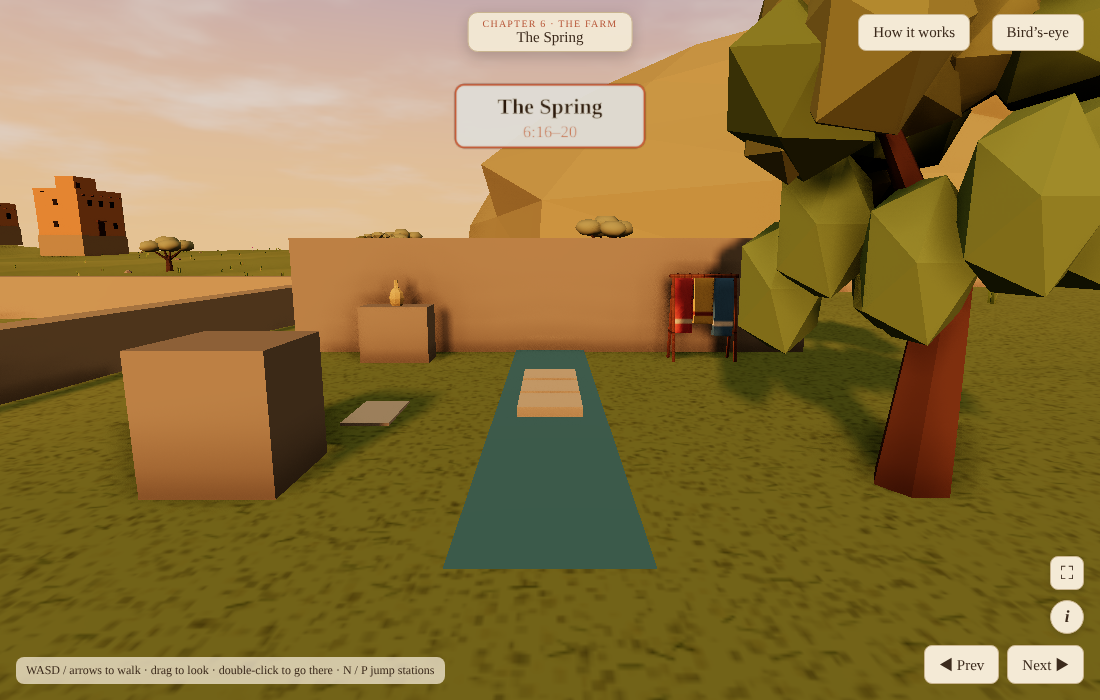
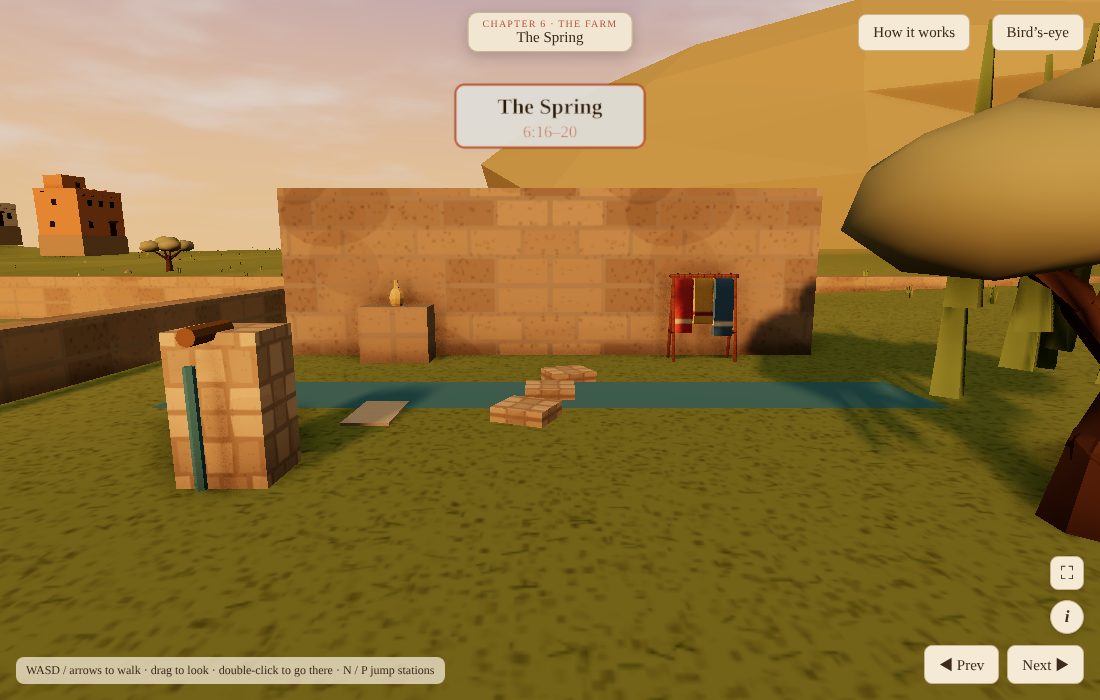
Sermon on the Mount: textures on all custom materials; room fixes from critic round 1 (15 rooms under 6)
Claude-Session: https://claude.ai/code/session_011GTaBjBmrRYMxR8CbFEKPF

diff --git a/som-ltm/world/farm.js b/som-ltm/world/farm.js
@@ -5,6 +5,8 @@
 // Builders use the helpers of world/mount.js (roomFrame, atR, SQ, ground, somRock, finishRoom, the som* materials).
 const basaltM = mat('somBasalt', '#6a625a'), plasterM = mat('somPlaster', '#e6dcc6'), mudM = mat('somMud', '#a88a62'), clothM = mat('somCloth', '#e8e0cc'),
   waterM = mat('somWater', '#4f8fa6'), willowM = mat('somWillow', '#7c9a52'), lentilM = mat('somLentil', '#6f8e3c'), herbM = mat('somHerb', '#7a8a4a');
+basaltM.map = TEX.stone; basaltM.color.set('#8a827a'); plasterM.map = TEX.plaster; mudM.map = TEX.plaster; mudM.color.set('#c8a878'); clothM.map = TEX.cloth;
+for (const m of [basaltM, plasterM, mudM, clothM]) m.needsUpdate = true;
 const wallRun = (x0, z0, x1, z1, H, m = dryStone, W = .6) => { const L = Math.hypot(x1 - x0, z1 - z0), xc = (x0 + x1) / 2, zc = (z0 + z1) / 2;
   const b = box(L, H, W, m, xc, Math.min(heightAt(x0, z0), heightAt(x1, z1), heightAt(xc, zc)) - .15, zc); b.rotation.y = -Math.atan2(z1 - z0, x1 - x0); return b; };
 // a wall along a line with gaps [[from, to], ...] measured along it
@@ -21,8 +23,9 @@ libAt('plaster-house-two-storey', 115.5, -16, Math.PI / 2, .9);   // the farmhou
 // ---- 6.1 THE COURTYARD (6:1–5): gate pier · curtained doorway · stair to the roof · roof-roller · cistern lid ----
 defBuilder('som.court', (r, { ch }) => { const F = roomFrame(r), h = 2.6, sp = SQ(h).map(([f, s]) => F.at(f, s)), out = [];
   { const g = atR(F, 0, 0); box(2 * h + 2, .08, 2 * h + 2, paleM, 0, 0, 0, g); }                                      // the paving
-  { const g = atR(F, -h, -h); box(.7, 1.8, .7, dryStone, 0, 0, 0, g); out.push(ground(sp[0], 1.95)); }                // the gate's left pier
-  { const g = atR(F, h + .7, -h + .2); box(1.3, 2.3, .15, mat('somCurtain', '#7a3b2e'), 0, 0, 0, g); box(1.8, .3, .4, 'wood', 0, 2.3, 0, g); out.push(ground(F.at(h + .4, -h + .2), .25)); }   // the doorway, its curtain
+  { const g = atR(F, -h, -h); box(.8, 1.9, .8, dryStone, 0, 0, 0, g); box(1, .18, 1, paleM, 0, 1.9, 0, g); out.push(ground(sp[0], 2.2)); }   // the gate's left pier, squared, with its cap
+  { for (const sd of [-1, 1]) { const g = atR(F, .4, sd * (h + 1.3)); box(.45, .9, 2 * h + 1.4, mudM, 0, 0, 0, g); } }   // low walls closing the court on either side
+  { const g = atR(F, h + .8, -h + .2); box(3.4, 2.7, .3, plasterM, 0, 0, -.2, g); box(1.2, 2.1, .32, darkM, 0, 0, -.18, g); box(1.1, 2, .06, mat('somCurtain', '#9a4a36'), 0, .05, 0, g); box(1.6, .22, .36, 'wood', 0, 2.1, -.15, g); out.push(ground(F.at(h + .45, -h + .2), .25)); }   // the doorway into the house, its curtain hanging
   { const g = atR(F, h + .2, h); for (let k = 0; k < 6; k++) box(1, .3 * (k + 1), .55, dryStone, 0, 0, .5 - k * .55, g); out.push(ground(F.at(h + .2, h), 1.15)); }   // the stair up to the roof
   { const g = atR(F, -h, h); const c = cyl(.28, .28, 1.2, 10, rockM, 0, .28, 0, g); c.rotation.z = Math.PI / 2; c.position.y = .28; out.push(ground(sp[3], .62)); }   // the roof-roller
   { cyl(.6, .6, .3, 14, dryStone, F.x, F.y, F.z); cyl(.5, .5, .1, 14, rockDk, F.x, F.y + .3, F.z); out.push({ x: F.x, z: F.z, y: F.y + .45 }); }   // the cistern mouth and its lid
@@ -45,23 +48,24 @@ defBuilder('som.store', (r, { ch }) => { const F = roomFrame(r), h = 2.3, sp = S
 
 // ---- 6.3 THE BAKEHOUSE YARD (6:11–15): sieve on its hook · woodpile · clay oven · smoke-stained corner · kneading bowl ----
 defBuilder('som.bake', (r, { ch }) => { const F = roomFrame(r), h = 2.5, sp = SQ(h).map(([f, s]) => F.at(f, s)), out = [];
-  { const g = atR(F, -h, -h); cyl(.07, .08, 1.9, 6, 'wood', 0, 0, 0, g); box(.3, .05, .05, 'wood', 0, 1.6, .12, g); const sv = cyl(.32, .32, .1, 14, mat('somSieve', '#c8a86a'), 0, 1.3, .2, g); sv.rotation.x = Math.PI / 2; out.push(ground(sp[0], 1.95)); }   // the sieve on its post
+  { const g = atR(F, -h, -h); cyl(.07, .08, 1.9, 6, 'wood', 0, 0, 0, g); box(.3, .05, .05, 'wood', 0, 1.6, .12, g); const rim = add(new THREE.TorusGeometry(.34, .05, 6, 18), 'woodLt', 0, 1.3, .24, g); const mesh = cyl(.32, .32, .02, 16, mat('somMesh', '#d8c08a'), 0, 1.3, .24, g); mesh.material.map = TEX.wicker; mesh.rotation.x = Math.PI / 2; out.push(ground(sp[0], 1.95)); }   // the sieve, rim and mesh, hung on its post
+  { const g = atR(F, h + 1.4, 0); box(2 * h + 3, 1, .45, mudM, 0, 0, 0, g); const g2 = atR(F, 0, -h - 1.4); box(.45, 1, 2 * h + 3, mudM, 0, 0, 0, g2); }   // low mud-brick yard walls
   { const g = atR(F, h, -h); for (let row = 0; row < 3; row++) for (let k = 0; k < 5 - row; k++) { const l = cyl(.11, .11, 1.3, 6, 'wood', -.5 + k * .24 + row * .12, .11 + row * .2, 0, g); l.rotation.x = Math.PI / 2; l.position.y = .11 + row * .2; } out.push(ground(sp[1], .75)); }   // the woodpile
   { const [x, z] = sp[2], y = heightAt(x, z); const oy = libAt('bread-oven', x, z, F.yaw, 1);
     for (let k = 0; k < 4; k++) { const [lx, lz] = F.at(h - 1.1, h - .4 + k * .3); cyl(.17, .17, .05, 10, mat('somLoaf', '#c8964e'), lx, heightAt(lx, lz) + .02, lz); } out.push({ x, z, y: oy }); }   // the clay oven, loaves cooling beside it
-  { const g = atR(F, -h - .3, h + .3); box(.4, .9, 1.4, dryStone, -.2, 0, .5, g); box(1.4, .9, .4, dryStone, -.5, 0, .2, g); box(.6, .6, .02, darkM, -.3, .3, -.01, g); out.push(ground(sp[3], .2)); }   // a low corner of walling outside the yard, smoke-stained   // the smoke-stained corner
-  { const g = atR(F, 0, 0); box(.7, .4, .7, rockM, 0, 0, 0, g); const t = libAt('clay-bowl', F.x, F.z, 0, 1.6); out.push({ x: F.x, z: F.z, y: Math.max(F.y + .75, t) }); }   // the kneading bowl on its stone
+  { const g = atR(F, -h - .3, h + .3); box(.45, 1.1, 1.6, mudM, -.2, 0, .5, g); box(1.6, 1.1, .45, mudM, -.5, 0, .2, g); box(.9, 1.05, .02, darkM, -.4, .02, -.03, g); box(.02, 1.05, .9, darkM, .03, .02, .2, g); out.push(ground(sp[3], .2)); }   // the yard's corner, blackened with smoke
+  { const g = atR(F, 0, 0); box(.8, .45, .8, rockM, 0, 0, 0, g); cyl(.58, .36, .3, 18, clayM, 0, .45, 0, g); add(new THREE.CircleGeometry(.5, 18), mat('somDough', '#efe2c4'), 0, .72, 0, g).rotation.x = -Math.PI / 2; const cl = box(.9, .02, .5, clothM, .25, .76, .15, g); cl.rotation.z = -.25; out.push({ x: F.x, z: F.z, y: F.y + .9 }); }   // the wide kneading bowl, dough and a cloth
   finishRoom(ch, r, F, out); });
 
 // ---- 6.4 THE SPRING (6:16–20): spout · oil flask on a ledge (v) · wash-line · willow · flat stones across the outflow ----
 defBuilder('som.spring', (r, { ch }) => { const F = roomFrame(r), h = 2.5, sp = SQ(h).map(([f, s]) => F.at(f, s)), out = [];
-  { const g = atR(F, h + 1.5, 0); box(2 * h + 4, 2.4, 1.6, rockM, 0, -.4, 0, g); }                                     // the rock face at the back
-  { const g = atR(F, -h, -h); box(1, 1.1, 1, rockM, 0, 0, 0, g); const p = cyl(.06, .06, .5, 6, 'wood', 0, .9, -.4, g); p.rotation.x = Math.PI / 2; p.position.set(0, .9, -.6); out.push(ground(sp[0], 1.25)); }   // the spout
+  { const g = atR(F, h + 1.1, 0); box(2 * h + 4, 3.2, 1.4, rockM, 0, -.4, 0, g); }   // the rock face the spring comes out of
+  { const g = atR(F, -h, -h); box(.7, 1.2, .6, paleM, 0, 0, 0, g); const p2 = cyl(.07, .07, .5, 8, mat('somBronze', '#8a6a3a'), 0, .95, .3, g); p2.rotation.x = Math.PI / 2; cyl(.04, .04, .9, 6, mat('somWater', '#6fb3c8'), 0, .1, .55, g); out.push(ground(sp[0], 1.35)); }   // the spout: a carved stone, a pipe, the water falling
   { const g = atR(F, h, -h); box(1.1, .9, .6, rockM, 0, 0, 0, g); const fl = add(new THREE.SphereGeometry(.12, 8, 6), mat('somFlask', '#d9c27a'), 0, 1.02, 0, g); fl.scale.y = 1.5; cyl(.03, .04, .14, 6, mat('somFlask', '#d9c27a'), 0, 1.18, 0, g); out.push(ground(sp[1], 1.35)); }   // flask of oil on a ledge of rock
   { const [x, z] = sp[2]; out.push({ x, z, y: libAt('laundry-rack', x, z, F.yaw, 1) }); }   // the wash-line with a tunic drying
-  { const [x, z] = F.at(-h - .3, h + .3); tree(x, z, 1.1); for (let k = 0; k < 9; k++) add(new THREE.IcosahedronGeometry(.4, 0), willowM, x + R(-1.2, 1.2), heightAt(x, z) + R(1.4, 2.6), z + R(-1.2, 1.2)).scale.y = 1.6; out.push(ground(sp[3], .6)); }   // the willow
-  { const m = add(new THREE.PlaneGeometry(1.2, 2 * h + 3), waterM, ...F.at(0, 0).map((v, i) => i ? v : v)); m.rotation.x = -Math.PI / 2; m.rotation.z = -F.yaw; m.position.set(F.x, F.y + .04, F.z);
-    for (let k = -1; k <= 1; k++) { const [x, z] = F.at(k * .7, 0); box(.6, .15, .7, paleM, x, F.y, z); } out.push({ x: F.x, z: F.z, y: F.y + .3 }); }   // the outflow and its flat stones
+  { const [x, z] = F.at(-h - .9, h + 1.1); tree(x, z, 1.1); for (let k = 0; k < 14; k++) { const fr = add(new THREE.CylinderGeometry(.02, .12, 1.6, 4), willowM, x + R(-1.2, 1.2), heightAt(x, z) + R(1.6, 2.6), z + R(-1.2, 1.2)); fr.rotation.z = R(-.15, .15); } out.push(ground(sp[3], .6)); }   // the willow, its fronds hanging
+  { const m = add(new THREE.PlaneGeometry(1.3, 2 * h + 4), waterM, 0, 0, 0); m.rotation.x = -Math.PI / 2; m.rotation.z = -F.yaw + Math.PI / 2; m.position.set(F.x, F.y + .04, F.z);
+    for (let k = -1; k <= 1; k++) { const [x, z] = F.at(k * .9, k * .25); const st = box(.6, .16, .55, paleM, x, F.y, z); st.rotation.y = F.yaw + k * .4; } out.push({ x: F.x, z: F.z, y: F.y + .3 }); }   // the outflow and its flat stones
   { const [x, z] = F.at(-.8, -h + .6); box(.9, .03, .5, clothM, x, heightAt(x, z) + .02, z); }   // a linen towel spread on the rocks
   finishRoom(ch, r, F, out); });
 
@@ -69,12 +73,12 @@ defBuilder('som.spring', (r, { ch }) => { const F = roomFrame(r), h = 2.5, sp = 
 defBuilder('som.stall', (r, { ch }) => { const F = roomFrame(r), h = 2.5, sp = SQ(h).map(([f, s]) => F.at(f, s)), out = [];
   const g = atR(F, 0, 0, Math.PI);
   box(.4, 2.6, 2 * h + 1.8, dryStone, -h - .9, 0, .2, g); box(.4, 2.6, 2 * h + 1.8, dryStone, h + .9, 0, .2, g); box(2 * h + 2.2, 2.6, .4, dryStone, 0, 0, h + 1, g);   // three walls, open front
-  box(2 * h + 2.4, .25, 2 * h + 2.4, 'wood', 0, 2.6, .2, g);                                                                  // the roof
+  for (let k = -2; k <= 2; k++) box(.2, .2, 2 * h + 2.4, 'wood', k * 1.4, 2.6, .2, g);   // open roof beams, so the stall is lit
   { const s2 = atR(F, -h, -h); box(.35, 2.6, .35, 'wood', 0, 0, 0, s2); out.push(ground(sp[0], 1.4)); }                     // the left stall post
-  { const s2 = atR(F, h + .7, -h); box(.08, .08, .3, 'wood', 0, 1.6, 0, s2); box(1.6, .14, .14, 'woodLt', 0, 1.62, -.2, s2); for (const s3 of [-.5, .5]) { const u = add(new THREE.TorusGeometry(.18, .04, 4, 8, Math.PI), 'wood', s3, 1.45, -.2, s2); u.rotation.z = Math.PI; } box(.5, 1.2, .4, dryStone, 0, 0, -.2, s2); out.push(ground(F.at(h + .7, -h), 1.3)); }   // the yoke on its peg, over a stone ledge
+  { const s2 = atR(F, h + .7, -h); box(.1, .1, .35, 'wood', 0, 1.7, 0, s2); box(1.9, .18, .18, 'woodLt', 0, 1.72, -.22, s2); for (const s3 of [-.6, .6]) { const u = add(new THREE.TorusGeometry(.22, .05, 5, 10, Math.PI), 'wood', s3, 1.5, -.22, s2); u.rotation.z = Math.PI; } box(.6, 1.3, .45, dryStone, 0, 0, -.2, s2); out.push(ground(F.at(h + .7, -h), 1.4)); }   // the yoke, made for two, on its peg
   { const s2 = atR(F, h, h, .3); const b = box(.12, .12, 2, 'wood', 0, .5, 0, s2); b.rotation.x = .25; box(.08, .5, .3, ironM, 0, .05, .9, s2); box(.6, .08, .08, 'wood', 0, .9, -.8, s2); out.push(ground(sp[2], .85)); }   // the plough
   { const [x, z] = sp[3]; for (let k = 0; k < 10; k++) add(new THREE.IcosahedronGeometry(R(.3, .45), 0), strawM, x + R(-.5, .5), heightAt(x, z) + R(0, .3), z + R(-.5, .5)).scale.y = .5; out.push(ground(sp[3], .55)); }   // straw bedding
-  { box(.6, 2.6, .6, dryStone, F.x, F.y, F.z); box(.45, .35, .1, darkM, F.x - F.fx * .3, F.y + .9, F.z - F.fz * .3); out.push({ x: F.x, z: F.z, y: F.y + 2.85 }); }   // the roof pillar and its feeding niche
+  { box(.7, 2.6, .7, dryStone, F.x, F.y, F.z); const [nx, nz] = F.at(-.36, 0); const n = box(.6, .45, .2, strawM, nx, F.y + .8, nz); n.rotation.y = F.yaw; out.push({ x: F.x, z: F.z, y: F.y + 2.85 }); }   // the roof pillar, its feeding niche filled with fodder
   { const [x, z] = F.at(1.3, -1.5); libAt('ox-grazing', x, z, F.yaw + .5, .85); }   // the ox
   finishRoom(ch, r, F, out); });
 
@@ -83,17 +87,17 @@ defBuilder('som.granary', (r, { ch }) => { const F = roomFrame(r), h = 2.5, sp =
   { const g = atR(F, -h, -h); for (let k = 0; k < 3; k++) box(1.2, .2 * (k + 1), .5, dryStone, 0, 0, -k * .5, g); out.push(ground(sp[0], .7)); }   // the terrace steps
   { const [x, z] = sp[1]; libAt('garden-plot', x, z, F.yaw, .8); out.push(ground(sp[1], .35)); }   // the patch of lentils
   { const g = atR(F, h, h); cyl(.05, .05, 2.2, 5, 'wood', 0, 0, 0, g); box(1.3, .06, .06, 'wood', 0, 1.6, 0, g); box(.6, .8, .2, mat('somRag', '#8a6a4a'), 0, 1.1, 0, g); add(new THREE.SphereGeometry(.17, 8, 6), strawM, 0, 2.05, 0, g); out.push(ground(sp[2], .5)); }   // the scarecrow
-  { const g = atR(F, -h + .6, h + 3.2, -Math.PI / 2); box(3.2, 2.8, 3, dryStone, 0, 0, 0, g); add(new THREE.SphereGeometry(1.6, 10, 6, 0, 6.3, 0, 1.57), mudM, 0, 2.8, 0, g).scale.y = .7; box(.9, 1.6, .1, 'wood', 0, 0, -1.55, g); out.push(ground(F.at(-h + .6, h + 1.4), .15)); }   // the granary, off to the right, its door facing the field
+  { const g = atR(F, -h + .9, h + 2.1, -Math.PI / 2); box(2.6, 2.6, 2.6, dryStone, 0, 0, 0, g); add(new THREE.SphereGeometry(1.35, 10, 6, 0, 6.3, 0, 1.57), mudM, 0, 2.6, 0, g).scale.y = .7; box(.9, 1.6, .1, 'wood', 0, 0, 1.33, g); box(1.1, .12, .2, 'woodLt', 0, 1.6, 1.36, g); out.push(ground(F.at(-h + .9, h + .6), .15)); }   // the stone granary, its door facing the field
   { for (let k = -2; k <= 2; k++) { const [x, z] = F.at(k * .6, 0); const fr = box(.25, .1, 3.2, mudM, x, heightAt(x, z) - .02, z); fr.rotation.y = F.yaw; }
-    const [x, z] = F.at(0, .3); const hd = cyl(.03, .03, 1.4, 5, 'wood', x, heightAt(x, z), z); hd.rotation.z = .5; out.push({ x: F.x, z: F.z, y: F.y + .3 }); }   // furrows and the hoe
+    const [x, z] = F.at(0, .3); const hd = cyl(.035, .035, 1.4, 5, 'wood', x, heightAt(x, z) + .12, z); hd.rotation.set(0, F.yaw, Math.PI / 2); const bl = box(.08, .3, .26, ironM, x, heightAt(x, z) + .02, z); bl.rotation.y = F.yaw; out.push({ x: F.x, z: F.z, y: F.y + .3 }); }   // furrows and the hoe
   finishRoom(ch, r, F, out); });
 
 // ---- 6.7 THE OLIVE PRESS (6:31–34): crushing stone · press beam in its wall socket · rope pulp-baskets · oil collecting pit ----
 defBuilder('som.press', (r, { ch }) => { const F = roomFrame(r), h = 2.4, sp = SQ(h).map(([f, s]) => F.at(f, s)), out = [];
   { const g = atR(F, h + 1.3, 0); box(2 * h + 3, 2.4, .7, dryStone, 0, 0, 0, g); }                                     // the back wall that holds the beam
-  { const [x, z] = sp[0]; out.push({ x, z, y: libAt('olive-press', x, z, F.yaw, 1) }); }   // the crushing stone in its bed
-  { const g = atR(F, h, -h + .3); const bm = box(.3, .3, 4.5, 'wood', 0, 1.2, -1.5, g); bm.rotation.x = -.12; box(.5, .5, .5, darkM, 0, .9, .75, g); box(.5, 1, .5, rockM, 0, 0, -3.5, g); out.push(ground(F.at(h - .6, -h + .3), 1.65)); }   // the press beam in its socket
-  { const [x, z] = sp[2]; for (let k = 0; k < 6; k++) cyl(.4, .4, .14, 12, mat('somRopeB', '#9a7a4a'), x, heightAt(x, z) + k * .15, z); out.push(ground(sp[2], 1.05)); }   // the stack of rope pulp-baskets
+  { const [x, z] = sp[0], y = heightAt(x, z); cyl(1.05, 1.1, .5, 18, rockM, x, y, z); cyl(.85, .85, .06, 18, mat('somOil', '#6a5a2a'), x, y + .47, z); cyl(.12, .12, 1.4, 8, 'wood', x, y + .5, z); const st = cyl(.62, .62, .32, 18, paleM, x + .4, y + 1.1, z); st.rotation.z = Math.PI / 2; const ax = box(1.8, .12, .12, 'wood', x + .4, y + 1.05, z); out.push({ x, z, y: y + 1.9 }); }   // the crushing stone: an upright millstone in its round stone bed
+  { const g = atR(F, h + .9, -h); box(.9, .9, .3, paleM, 0, .9, 0, g); box(.4, .4, .32, darkM, 0, 1.15, .01, g); const bm = box(.28, .28, 4.4, 'wood', 0, 1.0, 2.1, g); bm.rotation.x = .1; box(.6, .5, .6, rockM, 0, 0, 4.2, g); out.push(ground(F.at(h + .45, -h), 1.55)); }   // the press beam running out of its socket in the wall, a weight stone at its end
+  { const [x, z] = sp[2]; const bm2 = mat('somRopeB', '#b08a52'); bm2.map = TEX.wicker; for (let k = 0; k < 5; k++) cyl(.5, .5, .16, 16, bm2, x + R(-.04, .04), heightAt(x, z) + k * .17, z); out.push(ground(sp[2], .95)); }   // a stack of woven rope pulp-baskets
   { const [x, z] = sp[3], y = heightAt(x, z); cyl(.65, .65, .12, 14, rockM, x, y, z); add(new THREE.CircleGeometry(.45, 12), darkM, x, y + .13, z).rotation.x = -Math.PI / 2; out.push({ x, z, y: y + .2 }); }   // the oil collecting pit
   finishRoom(ch, r, F, out); });
 

diff --git a/som-ltm/world/mount.js b/som-ltm/world/mount.js
@@ -13,6 +13,12 @@ const rockM = mat('somRock', '#9a9282'), rockDk = mat('somRockDk', '#7d776b'), p
   ironM = mat('somIron', '#4a4744'), clayM = mat('somClay', '#b5653e'), hideM = mat('somHide', '#6b4a32'), tentM = mat('somTent', '#262220'),
   ashM = mat('somAsh', '#8d8a85'), leafM = mat('somLeaf', '#5f7a3e'), cukeM = mat('somCuke', '#5d7f36'), combM = mat('somComb', '#d9a640');
 
+// textures for the summit's own materials (critic, 2026-11-17: "flat, untextured"): stone and rock get the stone texture, slabs the flagstones,
+// cloth and tent the cloth weave, clay the pottery glaze. Rocks are lightened a little so nothing reads as a black hole.
+rockM.map = TEX.stone; rockM.color.set('#b0a796'); rockDk.map = TEX.stone; rockDk.color.set('#968e80'); dryStone.map = TEX.stone; dryStone.color.set('#c8b896');
+paleM.map = TEX.flag; paleM.color.set('#efe6d2'); floorM.map = TEX.flag; brushM.map = TEX.wicker; strawM.map = TEX.wicker; clayM.map = TEX.pot; clayM.color.set('#c47a4a');
+tentM.map = TEX.cloth; tentM.color.set('#4a3a30'); hideM.map = TEX.cloth; ashM.map = TEX.flag;
+for (const m of [rockM, rockDk, dryStone, paleM, floorM, brushM, strawM, clayM, tentM, hideM, ashM]) m.needsUpdate = true;
 // the room's frame: forward (away from the viewer) and right, in world x/z, as station() works them out
 function roomFrame(r) { const [x, z] = r.at, [vx, vz] = r.viewer; let fx = x - vx, fz = z - vz; const l = Math.hypot(fx, fz); fx /= l; fz /= l;
   return { x, z, fx, fz, yaw: Math.atan2(vx - x, vz - z), y: heightAt(x, z),
@@ -38,22 +44,24 @@ function finishRoom(ch, r, F, spots) {
 // ---- 5.1 THE SEAT (5:1–5): olive tree · limestone pavement · split boulder with a thornbush · water bag on a stake · the seat-rock ----
 defBuilder('som.seat', (r, { ch }) => { const F = roomFrame(r), h = 2.6, sp = SQ(h).map(([f, s]) => F.at(f, s)), out = [];
   { const [x, z] = sp[0]; libAt('olive-tree-gnarled', x, z, 0, 1); out.push(ground([x, z], .6)); }
-  { const g = atR(F, h, -h, .4); box(2.2, .12, 1.6, paleM, 0, 0, 0, g); box(1.4, .1, 1.1, paleM, .5, .02, -.6, g); out.push(ground(sp[1], .2)); }
-  { const [x, z] = sp[2]; const a = somRock(x - .5, z, .9), b = somRock(x + .55, z + .1, .8); shrub(x, z, 1.1); out.push({ x, z, y: Math.max(a, b) }); }
-  { const g = atR(F, -h, h); cyl(.06, .07, 1.5, 6, 'wood', 0, 0, 0, g); const bag = add(new THREE.SphereGeometry(.32, 8, 6), hideM, 0, 1.15, .14, g); bag.scale.set(1, 1.3, .7); out.push(ground(sp[3], 1.55)); }
-  { const [cx, cz] = sp[4], seat = add(new THREE.DodecahedronGeometry(1.25, 0), rockM, cx, F.y + .3, cz); seat.scale.set(1.25, .42, 1); seat.rotation.y = .4; out.push({ x: cx, z: cz, y: F.y + .75 }); }
+  { const g = atR(F, h, -h, .3); box(2.6, .14, 1.8, paleM, 0, -.02, 0, g); box(1.6, .12, 1.3, paleM, .9, .01, -.9, g); box(1.2, .1, 1, paleM, -1, .02, -.8, g); out.push(ground(sp[1], .25)); }   // bare limestone pavement, in broken pale slabs
+  { const [x, z] = sp[2]; const a = somRock(x - .62, z, .85), b = somRock(x + .62, z + .05, .8); libAt('shrub-cluster', x, z, 0, .55); out.push({ x, z, y: Math.max(a, b) + .1 }); }   // the split boulder: two halves, a caper bush in the gap
+  { const g = atR(F, -h, h); const st = cyl(.06, .08, 1.6, 6, 'wood', 0, 0, 0, g); for (const k of [-1, 1]) { const fk = cyl(.03, .04, .35, 5, 'wood', k * .08, 1.55, 0, g); fk.rotation.z = -k * .5; }
+    const bag = add(new THREE.CapsuleGeometry(.24, .38, 4, 10), mat('somSkin', '#a07a50'), 0, 1.08, .2, g); bag.rotation.x = .25; cyl(.05, .07, .16, 6, mat('somSkin', '#a07a50'), 0, 1.45, .14, g); out.push(ground(sp[3], 1.75)); }   // the goatskin water bag hung on a forked stake
+  { const [cx, cz] = sp[4]; const seat = cyl(1.05, 1.3, .55, 8, rockM, cx, F.y - .05, cz); seat.rotation.y = .3; box(1.5, .06, 1, paleM, cx, F.y + .5, cz).rotation.y = F.yaw; for (let k = 0; k < 6; k++) { const a = k / 6 * 6.28; somRock(cx + Math.cos(a) * 1.7, cz + Math.sin(a) * 1.7, .22); } out.push({ x: cx, z: cz, y: F.y + .7 }); }   // the flat seat-rock where he sat
+  { for (let k = 0; k < 4; k++) { const [x, z] = F.at(R(-4, 4), R(-4.5, 4.5)); libAt('grass-tufts', x, z, R(0, 6), 1); } }
   finishRoom(ch, r, F, out); });
 
 // ---- 5.2 THE SHEEPFOLD (5:6–10): gateway · slab-roofed corner · oak corner · crook on the wall · water trough ----
 defBuilder('som.fold', (r, { ch }) => { const F = roomFrame(r), h = 3, W = .55, H = .95, sp = SQ(h).map(([f, s]) => F.at(f, s)), out = [];
-  const seg = (a, b) => { const [x0, z0] = F.at(...a), [x1, z1] = F.at(...b), L = Math.hypot(x1 - x0, z1 - z0);
-    const m = box(L, H, W, dryStone, (x0 + x1) / 2, Math.min(heightAt(x0, z0), heightAt(x1, z1)) - .1, (z0 + z1) / 2); m.rotation.y = -Math.atan2(z1 - z0, x1 - x0); };
-  seg([-h, -h + 1.5], [-h, h]); seg([-h + 1.5, -h], [h, -h]); seg([h, -h], [h, h]); seg([h, h], [-h, h]);   // the gateway is the open near-left corner
+  const seg = (a, b, hh = H) => { const [x0, z0] = F.at(...a), [x1, z1] = F.at(...b), L = Math.hypot(x1 - x0, z1 - z0);
+    const m = box(L, hh, W, dryStone, (x0 + x1) / 2, Math.min(heightAt(x0, z0), heightAt(x1, z1)) - .1, (z0 + z1) / 2); m.rotation.y = -Math.atan2(z1 - z0, x1 - x0); };
+  seg([-h, -h + 1.5], [-h, h], .5);   // the near wall kept low so you can see into the fold seg([-h + 1.5, -h], [h, -h]); seg([h, -h], [h, h]); seg([h, h], [-h, h]);   // the gateway is the open near-left corner
   for (const s of [-h + 1.5, -h + 1.6]) { const g = atR(F, -h, s); }
-  { const [x, z] = sp[0]; somRock(x + R(-.3, .3), z, .35); out.push(ground(sp[0], .12)); }
+  { for (const [f, s2] of [[-h, -h + 1.6], [-h + 1.6, -h]]) { const [x, z] = F.at(f, s2); box(.6, 1.3, .6, rockM, x, heightAt(x, z) - .1, z); } out.push(ground(sp[0], .12)); }   // the gateway, two big stones either side of the gap
   { const g = atR(F, h - .7, -h + .7); for (let k = 0; k < 3; k++) box(1.6, .12, .55, rockDk, 0, H + .02, -.5 + k * .5, g); out.push(ground(sp[1], H + .2)); }
   { const [x, z] = F.at(h + 1.3, h + 1.2); tree(x, z, 1.2); out.push(ground(sp[2], H + .05)); }
-  { const g = atR(F, -h, h - .9); const c = cyl(.03, .03, 1.6, 5, 'wood', 0, .2, -.32, g); c.rotation.x = .25; out.push(ground(sp[3], H + .05)); }
+  { const g = atR(F, -h - .1, h - .9); const c = cyl(.045, .045, 1.8, 6, 'wood', 0, .1, 0, g); c.rotation.x = .12; const hk = add(new THREE.TorusGeometry(.16, .045, 5, 10, Math.PI * 1.3), 'wood', 0, 1.95, -.12, g); hk.rotation.y = Math.PI / 2; out.push(ground(sp[3], .9)); }   // the shepherd's crook leaning on the low wall
   { const [cx, cz] = sp[4]; out.push({ x: cx, z: cz, y: libAt('water-trough', cx, cz, F.yaw + Math.PI / 2, .9) }); }
   for (const [f, s] of [[1.2, -1.2], [-.9, 1.3]]) { const [x, z] = F.at(f, s); libAt('ewe-and-lamb', x, z, R(0, 6), .9); }
   finishRoom(ch, r, F, out); });
@@ -85,9 +93,9 @@ defBuilder('som.quarry', (r, { ch }) => { const F = roomFrame(r), h = 2.5, sp = 
   { const g = atR(F, 0, -h - 1.3); box(1.4, 3.2, 2 * h + 3, paleM, 0, -.3, 0, g); for (let k = 0; k < 9; k++) box(.02, 2.6, .05, rockDk, -.71, .2, -h - 1 + k * .75, g); }   // the left face, striped
   { const g = atR(F, h + 1.6, 0); box(2 * h + 4, 3.6, 1.4, paleM, 0, -.3, 0, g); }                                                            // the back face
   out.push(ground(sp[0], .15));
-  { const [x, z] = sp[1]; for (let k = 0; k < 16; k++) add(new THREE.DodecahedronGeometry(R(.12, .3), 0), paleM, x + R(-.6, .6), heightAt(x, z) + R(0, .4), z + R(-.6, .6)); out.push(ground(sp[1], .7)); }
-  { const g = atR(F, h + .4, h); box(1.4, 1.4, 1, paleM, 0, 0, 0, g); box(.03, 1.2, 1.02, darkM, .1, .1, 0, g); for (let k = 0; k < 3; k++) box(.08, .25, .14, ironM, .1, 1.1, -.3 + k * .3, g); out.push(ground(F.at(h + .4, h), 1.45)); }
-  { const g = atR(F, -h, h); for (let k = 0; k < 3; k++) { const a = k / 3 * 6.28, p = cyl(.05, .06, 3.2, 5, 'wood', Math.cos(a) * .7, 0, Math.sin(a) * .7, g); p.rotation.set(Math.sin(a) * -.21, 0, Math.cos(a) * .21); } add(new THREE.TorusGeometry(.12, .03, 4, 8), 'wood', 0, 2.6, 0, g); cyl(.01, .01, 2.3, 4, 'wood', 0, .25, 0, g); out.push(ground(sp[3], .6)); }
+  { const [x, z] = sp[1]; for (let k = 0; k < 34; k++) { const d = R(0, 1), a = R(0, 6.3); add(new THREE.DodecahedronGeometry(R(.14, .3), 0), paleM, x + Math.cos(a) * d * 1.1, heightAt(x, z) + (1 - d) * .8, z + Math.sin(a) * d * 1.1); } out.push(ground(sp[1], 1.05)); }   // the spoil heap of chippings
+  { const g = atR(F, h + .4, h); box(1.8, 1.5, 1.2, paleM, 0, 0, 0, g); box(.12, 1.3, 1.22, darkM, 0, .15, 0, g); for (let k = 0; k < 3; k++) box(.16, .4, .2, ironM, 0, 1.35, -.4 + k * .4, g); out.push(ground(F.at(h + .4, h), 1.8)); }   // the crack, with iron wedges driven in
+  { const g = atR(F, -h, h); for (let k = 0; k < 3; k++) { const a = k / 3 * 6.28, p = cyl(.05, .06, 2.4, 5, 'wood', Math.cos(a) * .55, 0, Math.sin(a) * .55, g); p.rotation.set(Math.sin(a) * -.21, 0, Math.cos(a) * .21); } add(new THREE.TorusGeometry(.12, .03, 4, 8), 'wood', 0, 2.6, 0, g); cyl(.01, .01, 2.3, 4, 'wood', 0, .25, 0, g); out.push(ground(sp[3], .6)); }
   { const g = atR(F, 0, 0, .2); for (const z of [-.6, .6]) { const c = cyl(.1, .1, 1.5, 7, 'wood', 0, 0, z, g); c.rotation.z = Math.PI / 2; c.position.y = .1; } box(1.2, .9, 1.6, paleM, 0, .2, 0, g); out.push({ x: F.x, z: F.z, y: F.y + 1.15 }); }
   finishRoom(ch, r, F, out); });
 
@@ -103,11 +111,11 @@ defBuilder('som.charcoal', (r, { ch }) => { const F = roomFrame(r), h = 2.6, sp 
 
 // ---- 5.7 THE BEE BANK (5:31–35): capped bank end · stacked hive pipes · smoker pot · bees' water dish · tray of comb ----
 defBuilder('som.bees', (r, { ch }) => { const F = roomFrame(r), h = 2.5, sp = SQ(h).map(([f, s]) => F.at(f, s)), out = [];
-  { const g = atR(F, .2, -h - .3); box(1.1, 1.1, 2 * h + .9, dryStone, 0, 0, 0, g); }                         // the bank along the left side, from near to far
-  { const [x, z] = sp[0]; add(new THREE.SphereGeometry(.6, 8, 5, 0, 6.3, 0, 1.57), rockM, x, heightAt(x, z) + 1.05, z); out.push(ground(sp[0], 1.55)); }   // the capstone on its near end
+  { const g = atR(F, .2, -h - .9); box(1.1, .8, 2 * h + .9, dryStone, 0, 0, 0, g); }                         // the bank along the left side, from near to far
+  { const [x, z] = sp[0]; box(1.2, .9, 1.2, dryStone, x, heightAt(x, z) - .05, z); add(new THREE.SphereGeometry(.62, 8, 5, 0, 6.3, 0, 1.57), rockM, x, heightAt(x, z) + .85, z); out.push(ground(sp[0], 1.5)); }   // the bank's rounded end, with its capstone   // the capstone on its near end
   { const g = atR(F, h + .6, -h + .3); box(1.2, 1.4, 2.6, dryStone, 0, 0, 0, g); for (let row = 0; row < 3; row++) for (let k = 0; k < 4; k++) { const p = cyl(.16, .16, 1.3, 8, clayM, -.05, .2 + row * .36, -.95 + k * .38 + (row % 2) * .19, g); p.rotation.x = Math.PI / 2; p.position.y = .25 + row * .36; } out.push(ground(sp[1], 1.5)); }
-  { const g = atR(F, h, h); somRock(...F.at(h, h), .45); cyl(.13, .17, .32, 8, clayM, 0, .5, 0, g); out.push(ground(sp[2], .95)); }
-  { const g = atR(F, -h, h); cyl(.38, .3, .1, 12, clayM, 0, 0, 0, g); out.push(ground(sp[3], .2)); }
+  { const g = atR(F, h, h); somRock(...F.at(h, h), .45); cyl(.16, .2, .42, 8, clayM, 0, .5, 0, g); const sp2 = cyl(.04, .06, .3, 6, clayM, .16, .82, 0, g); sp2.rotation.z = -.6; for (let k = 0; k < 4; k++) { const m = add(new THREE.SphereGeometry(.12 + k * .06, 8, 6), mat('somSmoke', '#e6e1da', { transparent: true, opacity: .5 }), .3 + k * .12, 1.0 + k * .3, 0, g); } out.push(ground(sp[2], 1.0)); }   // the smoker pot, smoking
+  { const g = atR(F, -h, h); cyl(.45, .35, .14, 14, clayM, 0, 0, 0, g); cyl(.4, .4, .02, 14, mat('somWater', '#4f8fa6'), 0, .12, 0, g); for (let k = 0; k < 3; k++) add(new THREE.DodecahedronGeometry(.07, 0), rockM, -.15 + k * .15, .14, R(-.1, .1), g); out.push(ground(sp[3], .3)); }   // the bees' water dish, with stones to land on
   { const g = atR(F, 0, 0); box(.9, .45, .7, rockM, 0, 0, 0, g); box(.7, .06, .5, 'woodLt', 0, .45, 0, g); for (let k = 0; k < 3; k++) box(.18, .08, .4, combM, -.22 + k * .22, .51, 0, g); out.push({ x: F.x, z: F.z, y: F.y + .62 }); }
   finishRoom(ch, r, F, out); });
 
@@ -134,9 +142,9 @@ defBuilder('som.road', (r, { ch }) => { const F = roomFrame(r), h = 2.6, sp = SQ
 
 // ---- 5.10 THE WATCHTOWER (5:46–48): the tower's wooden ladder · its lookout window · the vine trellis ----
 defBuilder('som.tower', (r, { ch }) => { const F = roomFrame(r), h = 2.3, sp = SQ(h).map(([f, s]) => F.at(f, s)), out = [];
-  const [tx, tz] = F.at(h + 1.4, -.6), ty = heightAt(tx, tz); cyl(2.3, 2.6, 5.5, 14, dryStone, tx, ty - .3, tz); cyl(2.45, 2.45, .3, 14, rockDk, tx, ty + 5.1, tz);
+  const [tx, tz] = F.at(h + 2.6, -h + .4), ty = heightAt(tx, tz); cyl(2.2, 2.45, 4.2, 14, dryStone, tx, ty - .3, tz); cyl(2.35, 2.35, .3, 14, rockDk, tx, ty + 3.85, tz);
   { const g = atR(F, -h, -h, .3); for (const s of [-.25, .25]) { const p = cyl(.04, .04, 3, 5, 'wood', s, 0, 0, g); p.rotation.x = -.25; } for (let k = 0; k < 7; k++) box(.55, .04, .05, 'wood', 0, .3 + k * .4, -.08 - k * .1, g); out.push(ground(sp[0], .6)); }
-  { const g = atR(F, h - .3, -h + .9); box(.9, .14, .5, rockM, 0, 1.25, 0, g); box(.7, .8, .1, darkM, 0, 1.4, -.26, g); out.push(ground(F.at(h - .3, -h + .9), 1.55)); }   // the window, its sill
+  { const [wx, wz] = F.at(h + .45, -h + .4), g = atR(F, h + .45, -h + .4); box(1.1, .16, .6, rockM, 0, 1.35, .05, g); box(.8, .95, .12, darkM, 0, 1.5, -.12, g); out.push({ x: wx, z: wz, y: heightAt(wx, wz) + 1.65 }); }   // the lookout window, its sill
   { const [x, z] = sp[2]; libAt('grapevine-trellis', x, z, F.yaw, 1); out.push(ground(sp[2], .9)); { const [vx, vz] = F.at(h + 7, 6); libAt('vineyard-rows', vx, vz, F.yaw, 1); } }
   finishRoom(ch, r, F, out); });
 

diff --git a/som-ltm/world/village.js b/som-ltm/world/village.js
@@ -3,7 +3,7 @@
 // Flat ground, so rule 6's clockwise form: enter at the east end (where the lane from the farm's lower gate meets the street),
 // face west: rooms 1–3 on the left (the lake side), turn at the west end, rooms 4–6 on the right (the hill side) back east.
 // The dry wadi crosses the street just west of the entrance: 7.6, the House on the Sand, stands in its bed; 7.5, the House on the Rock, on its west bank.
-const sandM = mat('somSand', '#e2cf9e'), reedM = mat('somReed', '#b9a76a'), palmM = mat('somPalm', '#6d8a3a'), fishM = mat('somFish', '#9fb0b8');
+const sandM = mat('somSand', '#e2cf9e'), reedM = mat('somReed', '#b9a76a'); reedM.map = TEX.wicker; reedM.needsUpdate = true; const _v = 0, palmM = mat('somPalm', '#6d8a3a'), fishM = mat('somFish', '#9fb0b8');
 
 // ---- 7.1 THE BOATWRIGHT'S YARD (7:1–5): planks · saw pit · pitch pot · trestle and adze · half-built hull on trestles ----
 defBuilder('som.boat', (r, { ch }) => { const F = roomFrame(r), h = 2.4, sp = SQ(h).map(([f, s]) => F.at(f, s)), out = [];
@@ -20,13 +20,13 @@ defBuilder('som.boat', (r, { ch }) => { const F = roomFrame(r), h = 2.4, sp = SQ
 defBuilder('som.fisher', (r, { ch }) => { const F = roomFrame(r), h = 2.4, sp = SQ(h).map(([f, s]) => F.at(f, s)), out = [];
   const g = atR(F, 0, 0, Math.PI);
   box(.5, .9, 2 * h + 2, basaltM, -h - .9, 0, 0, g); box(.5, .9, 2 * h + 2, basaltM, h + .9, 0, 0, g);                       // basalt side walls
-  box(2 * h + 2.3, .9, .5, basaltM, 0, 0, h + 1.3, g); box(2 * h + 2.3, 2.8, 2.4, basaltM, 0, 0, h + 2.7, g);                    // the back wall and the house behind it
+  box(2 * h + 2.3, .9, .5, basaltM, 0, 0, h + 1.3, g); { const [hx, hz] = F.at(h + 4, 0); libAt('mud-brick-house', hx, hz, F.yaw, 1); }   // the back wall, the house behind it
   box(2 * h - 1.2, .5, .5, basaltM, .9, 0, -h - 1, g);                                                                            // the front wall, with the entrance at the near-left
-  out.push(ground(F.at(-h - 1, -h + .2), .15));                                                                                   // the courtyard entrance
-  { const s2 = atR(F, h, -h); box(1.2, .8, .9, rockM, 0, 0, 0, s2); box(1, .05, .7, waterM, 0, .76, 0, s2); out.push(ground(sp[1], .95)); }   // the fish-salting vat
-  { const [x, z] = sp[2]; libAt('fishing-net', x, z, F.yaw, 1); out.push(ground(sp[2], .5)); }   // the net drying on poles
+  for (const s3 of [-h - 1.1, -h + 1.1]) { const [px, pz] = F.at(-h - 1, s3); box(.5, .6, .5, paleM, px, heightAt(px, pz) - .1, pz); } out.push(ground(F.at(-h - 1, -h), .15));   // the courtyard entrance between two low pale stones
+  { const s2 = atR(F, h, -h); box(1.3, .85, 1, paleM, 0, 0, 0, s2); box(1.05, .06, .75, mat('somBrine', '#9ab8b0'), 0, .8, 0, s2); for (let k = 0; k < 4; k++) box(.25, .05, .08, mat('somFish', '#9fb0b8'), -.3 + k * .2, .86, R(-.2, .2), s2); out.push(ground(sp[1], 1.0)); }   // the fish-salting vat: stone rim, brine, fish
+  { const [x, z] = sp[2]; libAt('fishing-net', x, z, F.yaw, 1.4); out.push(ground(sp[2], .6)); }   // the net drying on poles
   { const [x, z] = sp[3]; out.push({ x, z, y: libAt('basket-of-fish', x, z, F.yaw, 1) }); }   // the basket of fish
-  { const g2 = atR(F, 0, 0); box(.9, .45, .7, basaltM, 0, 0, 0, g2); add(new THREE.TorusGeometry(.22, .07, 5, 12), mat('somRope', '#c8b48a'), 0, .52, 0, g2).rotation.x = Math.PI / 2; out.push({ x: F.x, z: F.z, y: F.y + .65 }); }   // the mending stone with a coil of rope
+  { const g2 = atR(F, 0, 0); box(1, .5, .8, paleM, 0, 0, 0, g2); for (let k = 0; k < 3; k++) add(new THREE.TorusGeometry(.28 - k * .06, .06, 6, 14), mat('somRope', '#c8b48a'), .15, .55 + k * .07, 0, g2).rotation.x = Math.PI / 2; out.push({ x: F.x, z: F.z, y: F.y + .78 }); }   // the pale mending stone, a coil of rope on it
   finishRoom(ch, r, F, out); });
 
 // ---- 7.3 THE TAX TABLE (7:11–15): tax table and scales · mounting step · tethering rail · trade bales · the narrow jetty ----
@@ -43,11 +43,11 @@ defBuilder('som.tax', (r, { ch }) => { const F = roomFrame(r), h = 2.4, sp = SQ(
 defBuilder('som.orchard', (r, { ch }) => { const F = roomFrame(r), h = 2.5, sp = SQ(h).map(([f, s]) => F.at(f, s)), out = [];
   const g = atR(F, 0, 0, Math.PI);
   box(.45, 1.1, 2 * h + 3, dryStone, -h - 1.3, 0, 0, g); box(.45, 1.1, 2 * h + 3, dryStone, h + 1.3, 0, 0, g); box(2 * h + 3, 1.1, .45, dryStone, 0, 0, h + 1.5, g);   // the orchard walls
-  { const [x, z] = sp[0], y = heightAt(x, z); const ch2 = box(.4, .06, 4, waterM, x, y + .02, z); ch2.rotation.y = F.yaw; box(.6, .5, .12, 'wood', x, y, z); out.push({ x, z, y: y + .65 }); }   // the irrigation sluice
+  { const [x, z] = sp[0], y = heightAt(x, z); const ch2 = box(.45, .06, 4, mat('somWater', '#6fb3c8'), x, y + .03, z); ch2.rotation.y = F.yaw; for (const s3 of [-.4, .4]) { const [sx, sz] = F.at(-h, -h + s3); box(.25, .8, .25, paleM, sx, y, sz); } const gt = box(.62, .5, .08, 'woodLt', x, y + .1, z); gt.rotation.y = F.yaw + Math.PI / 2; out.push({ x, z, y: y + .95 }); }   // the irrigation sluice: two stones and a plank gate
   { const [x, z] = F.at(h + .3, -h - .3); libAt('almond-in-blossom', x, z, 0, 1); out.push(ground(sp[1], .6)); }   // the almond tree in blossom
-  { const s2 = atR(F, h + .7, h); box(1.4, .5, .6, rockM, 0, 0, 0, s2); out.push(ground(F.at(h + .7, h), .65)); }   // the gardener's stone seat in the wall
-  { const [x, z] = sp[3]; libAt('village-well', x, z, F.yaw, .85); out.push(ground(sp[3], .9)); }   // the shallow well, rope and bucket
-  { for (let k = 0; k < 9; k++) { const b = cyl(.03, .05, R(1, 1.6), 4, 'wood', F.x + R(-.5, .5), F.y + .1, F.z + R(-.5, .5)); b.rotation.set(Math.PI / 2 + R(-.3, .3), R(0, 3), R(-.2, .2)); } out.push({ x: F.x, z: F.z, y: F.y + .5 }); }   // the pile of pruned branches
+  { const s2 = atR(F, h + .9, h); box(1.8, 1.1, .3, darkM, 0, 0, .25, s2); box(1.5, .45, .7, paleM, 0, 0, 0, s2); out.push(ground(F.at(h + .7, h), .6)); }   // the gardener's pale stone seat, set in a niche of the wall
+  { const [x, z] = sp[3]; libAt('village-well', x, z, F.yaw, .65); out.push(ground(sp[3], .8)); }   // the shallow well, rope and bucket
+  { for (let k = 0; k < 22; k++) { const b = cyl(.03, .05, R(1, 1.7), 4, 'wood', F.x + R(-.5, .5), F.y + .1 + R(0, .35), F.z + R(-.5, .5)); b.rotation.set(Math.PI / 2 + R(-.4, .4), R(0, 3), R(-.3, .3)); } for (let k = 0; k < 10; k++) add(new THREE.IcosahedronGeometry(R(.15, .25), 0), mat('somLeaf', '#5f7a3e'), F.x + R(-.6, .6), F.y + R(.2, .55), F.z + R(-.6, .6)); for (const [f2, s3, id] of [[h + 1.5, .2, 'fig-tree'], [h + 1.3, -1.8, 'olive-tree-soft']]) { const [tx, tz] = F.at(f2, s3); libAt(id, tx, tz, R(0, 6), .9); } out.push({ x: F.x, z: F.z, y: F.y + .75 }); }   // a mounded pile of pruned branches; more fruit trees behind
   for (const [f2, s3] of [[-1.2, 1.2], [1.4, .2]]) { const [x, z] = F.at(f2 + 3.5, s3 - 4); }
   finishRoom(ch, r, F, out); });
 
@@ -56,19 +56,19 @@ defBuilder('som.rock', (r, { ch }) => { const F = roomFrame(r), h = 2.4, sp = SQ
   { const g = atR(F, .8, 0); box(2 * h + 3.4, lift + .4, 2 * h + 4.6, rockM, 0, -.4, 0, g); box(1.2, lift * .5, .6, rockM, -h - .2, 0, -h - 3, g); }   // the rock shelf, and a step up onto it
   { const [x, z] = F.at(h + 3.4, 0); libAt('plaster-house-one-storey', x, z, F.yaw, 1, lift - .05); }   // the stone house on the rock
   const Y = F.y + lift;
-  { const g = atR(F, -h, -h); box(1.1, .2, .7, paleM, 0, lift - .02, 0, g); out.push({ x: sp[0][0], z: sp[0][1], y: Y + .3 }); }   // the doorstep hewn in the rock
-  { const g = atR(F, h, -h); box(1.5, .45, .5, paleM, 0, lift, 0, g); out.push({ x: sp[1][0], z: sp[1][1], y: Y + .6 }); }        // the stone bench against the house wall
+  { const g = atR(F, -h, -h); box(1.2, lift * .5, .8, rockM, 0, 0, -.5, g); box(1.2, .22, .8, paleM, 0, lift - .02, 0, g); out.push({ x: sp[0][0], z: sp[0][1], y: Y + .3 }); }   // the step hewn in the rock, up onto the shelf
+  { const g = atR(F, h, -h); box(2.2, .45, .55, paleM, 0, lift, 0, g); box(2.2, .5, .15, paleM, 0, lift + .45, .3, g); out.push({ x: sp[1][0], z: sp[1][1], y: Y + .6 }); }   // the long stone bench against the house wall
   { const g = atR(F, h, h + .3); for (let k = 0; k < 4; k++) somRock(...F.at(h - .6 + k * .4, h + .9), .3, Y - .1); out.push({ x: sp[2][0], z: sp[2][1], y: Y + .15 }); }   // the shelf's edge over the wadi
   { const g = atR(F, -h, h); cyl(.3, .35, .5, 10, rockM, 0, lift, 0, g); cyl(.04, .05, .7, 5, 'wood', .05, lift + .45, 0, g).rotation.z = .3; out.push({ x: sp[3][0], z: sp[3][1], y: Y + .75 }); }   // the stone mortar
-  { for (let k = 0; k < 14; k++) { const b = cyl(.025, .025, 2, 4, reedM, F.x + R(-.15, .15), Y + .15 + (k % 3) * .06, F.z + R(-.15, .15)); b.rotation.set(Math.PI / 2, F.yaw + R(-.1, .1), 0); } out.push({ x: F.x, z: F.z, y: Y + .45 }); }   // the bundle of roofing reeds
+  { for (let k = 0; k < 30; k++) { const b = cyl(.03, .03, 2.2, 4, reedM, F.x + R(-.18, .18), Y + .2 + R(0, .3), F.z + R(-.18, .18)); b.rotation.set(Math.PI / 2, F.yaw + R(-.05, .05), 0); } const [rx, rz] = F.at(0, 0); for (const sd of [-.55, .55]) { const t = add(new THREE.CylinderGeometry(.24, .24, .08, 10), mat('somRope', '#c8b48a'), rx - F.fz * sd, Y + .38, rz + F.fx * sd); t.rotation.set(0, F.yaw, Math.PI / 2); } out.push({ x: F.x, z: F.z, y: Y + .65 }); }   // a tied bundle of roofing reeds
   finishRoom(ch, r, F, out); });
 
 // ---- 7.6 THE HOUSE ON THE SAND (7:26–29): date palm · reed fence · the far bank · the house's mud-brick front wall ----
 defBuilder('som.sand', (r, { ch }) => { const F = roomFrame(r), h = 2.4, sp = SQ(h).map(([f, s]) => F.at(f, s)), out = [];
   { const [x, z] = sp[0]; libAt('date-palm', x, z, 0, 1); out.push(ground(sp[0], .6)); }   // the date palm leaning over the house
-  { const g = atR(F, h, -h); for (let k = 0; k < 12; k++) cyl(.03, .03, 1.3, 4, reedM, -1.1 + k * .2, 0, 0, g); box(2.3, .05, .05, 'wood', 0, 1, 0, g); out.push(ground(sp[1], 1.15)); }   // the reed fence round the little yard
-  { const [x, z] = F.at(h + 1.5, h); out.push(ground(sp[2], .2)); }                                                            // the bank across the wadi
-  { const [x, z] = F.at(-h + 1.6, h + 2.6); libAt('mud-brick-house', x, z, F.yaw - Math.PI / 2, 1); out.push(ground(F.at(-h, h), 1.0)); }   // the mud-brick house; spot 4 at its front wall's near corner
+  { const g = atR(F, h, -h); for (let k = 0; k < 18; k++) cyl(.04, .04, 1.7, 4, reedM, -1.7 + k * .2, 0, 0, g); for (const yy of [.5, 1.3]) box(3.6, .06, .06, 'wood', 0, yy, 0, g); out.push(ground(sp[1], 1.5)); }   // the reed fence round the little yard
+  { const [bx, bz] = F.at(h + 1.8, h); const bank = box(5, 1.3, 2.5, mat('somSand', '#e2cf9e'), bx, heightAt(bx, bz) - .3, bz); bank.rotation.y = F.yaw; bank.material.map = TEX.flag; out.push(ground(sp[2], .2)); }   // the bank across the wadi, the crowd on top of it
+  { const [x, z] = F.at(h + 2.5, h + 4.5); libAt('mud-brick-house', x, z, F.yaw - Math.PI / 2, .9); const g = atR(F, -h, h); box(.45, .8, 2.2, mudM, 0, 0, -.6, g); out.push(ground(F.at(-h, h), .95)); }   // the house set back at the far right; spot 4 is the low mud-brick wall of its yard
   finishRoom(ch, r, F, out); });
 
 // the crowd on the far bank of the wadi, facing the walk's end (7:28–29)

diff --git a/som-ltm/refs/critic/SPECS.md b/som-ltm/refs/critic/SPECS.md
@@ -148,7 +148,7 @@ Spots are listed in the fixed order. P = a feature of the place itself; O = an o
 - spot 5 centre: the pile of pruned branches (O)
 
 ## Room 22: 7.5 The House on the Rock (7:21–25) — screenshot: room-22.png
-- spot 1 near-left: the doorstep hewn in the rock (P)
+- spot 1 near-left: the step hewn in the rock, up onto the shelf (P)
 - spot 2 far-left: the stone bench against the house wall (O)
 - spot 3 far-right: the shelf's edge over the wadi (P)
 - spot 4 near-right: the stone mortar (O)
@@ -158,4 +158,4 @@ Spots are listed in the fixed order. P = a feature of the place itself; O = an o
 - spot 1 near-left: the date palm leaning over the house (O)
 - spot 2 far-left: the reed fence round the yard (O)
 - spot 3 far-right: the bank across the wadi (P)
-- spot 4 near-right: the house's mud-brick front wall (P)
+- spot 4 near-right: the low mud-brick wall of the yard (P)
